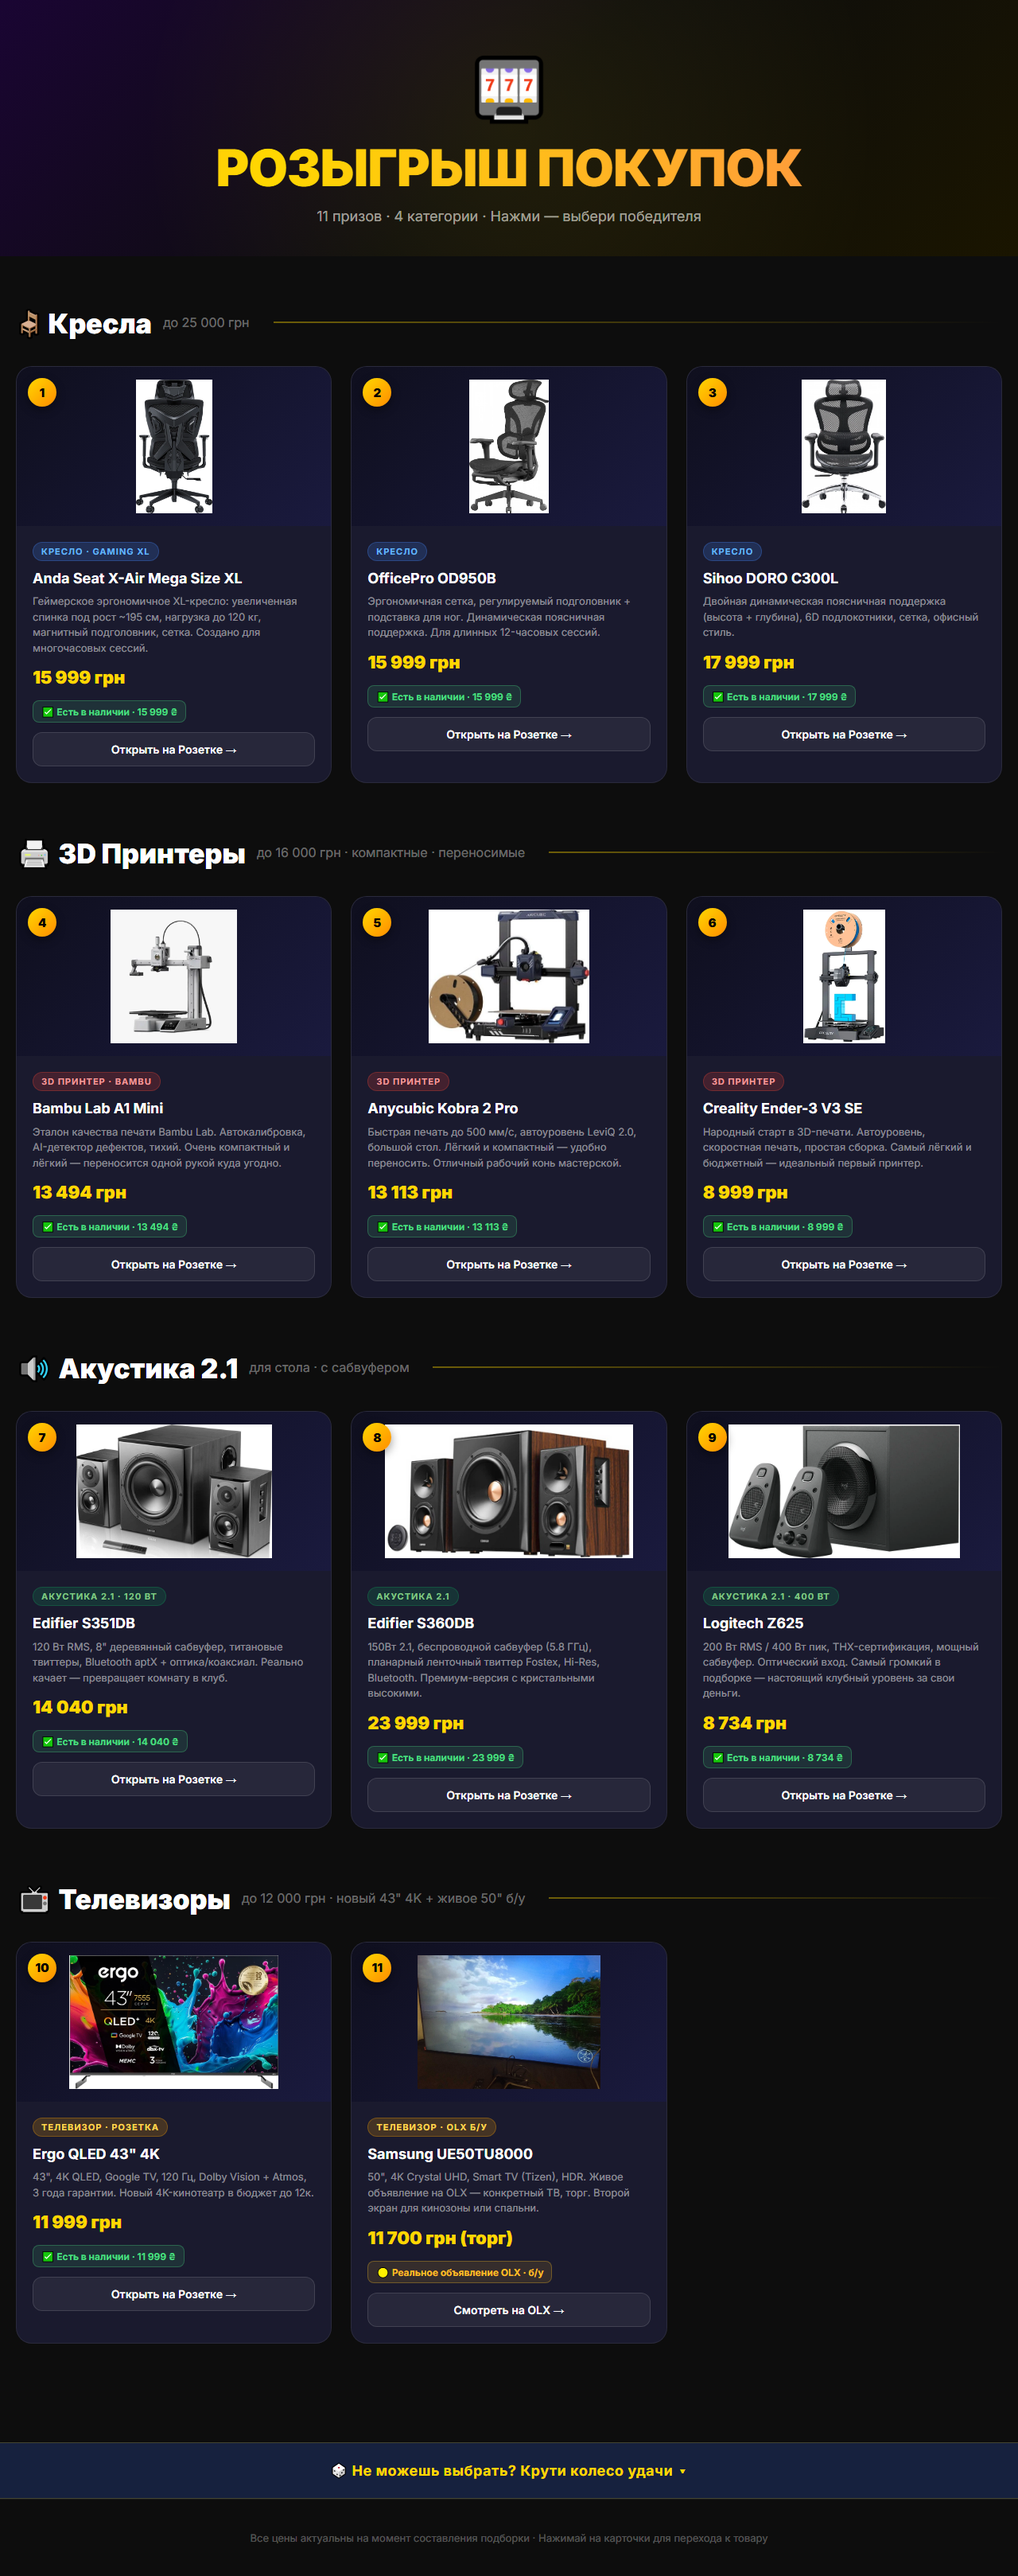
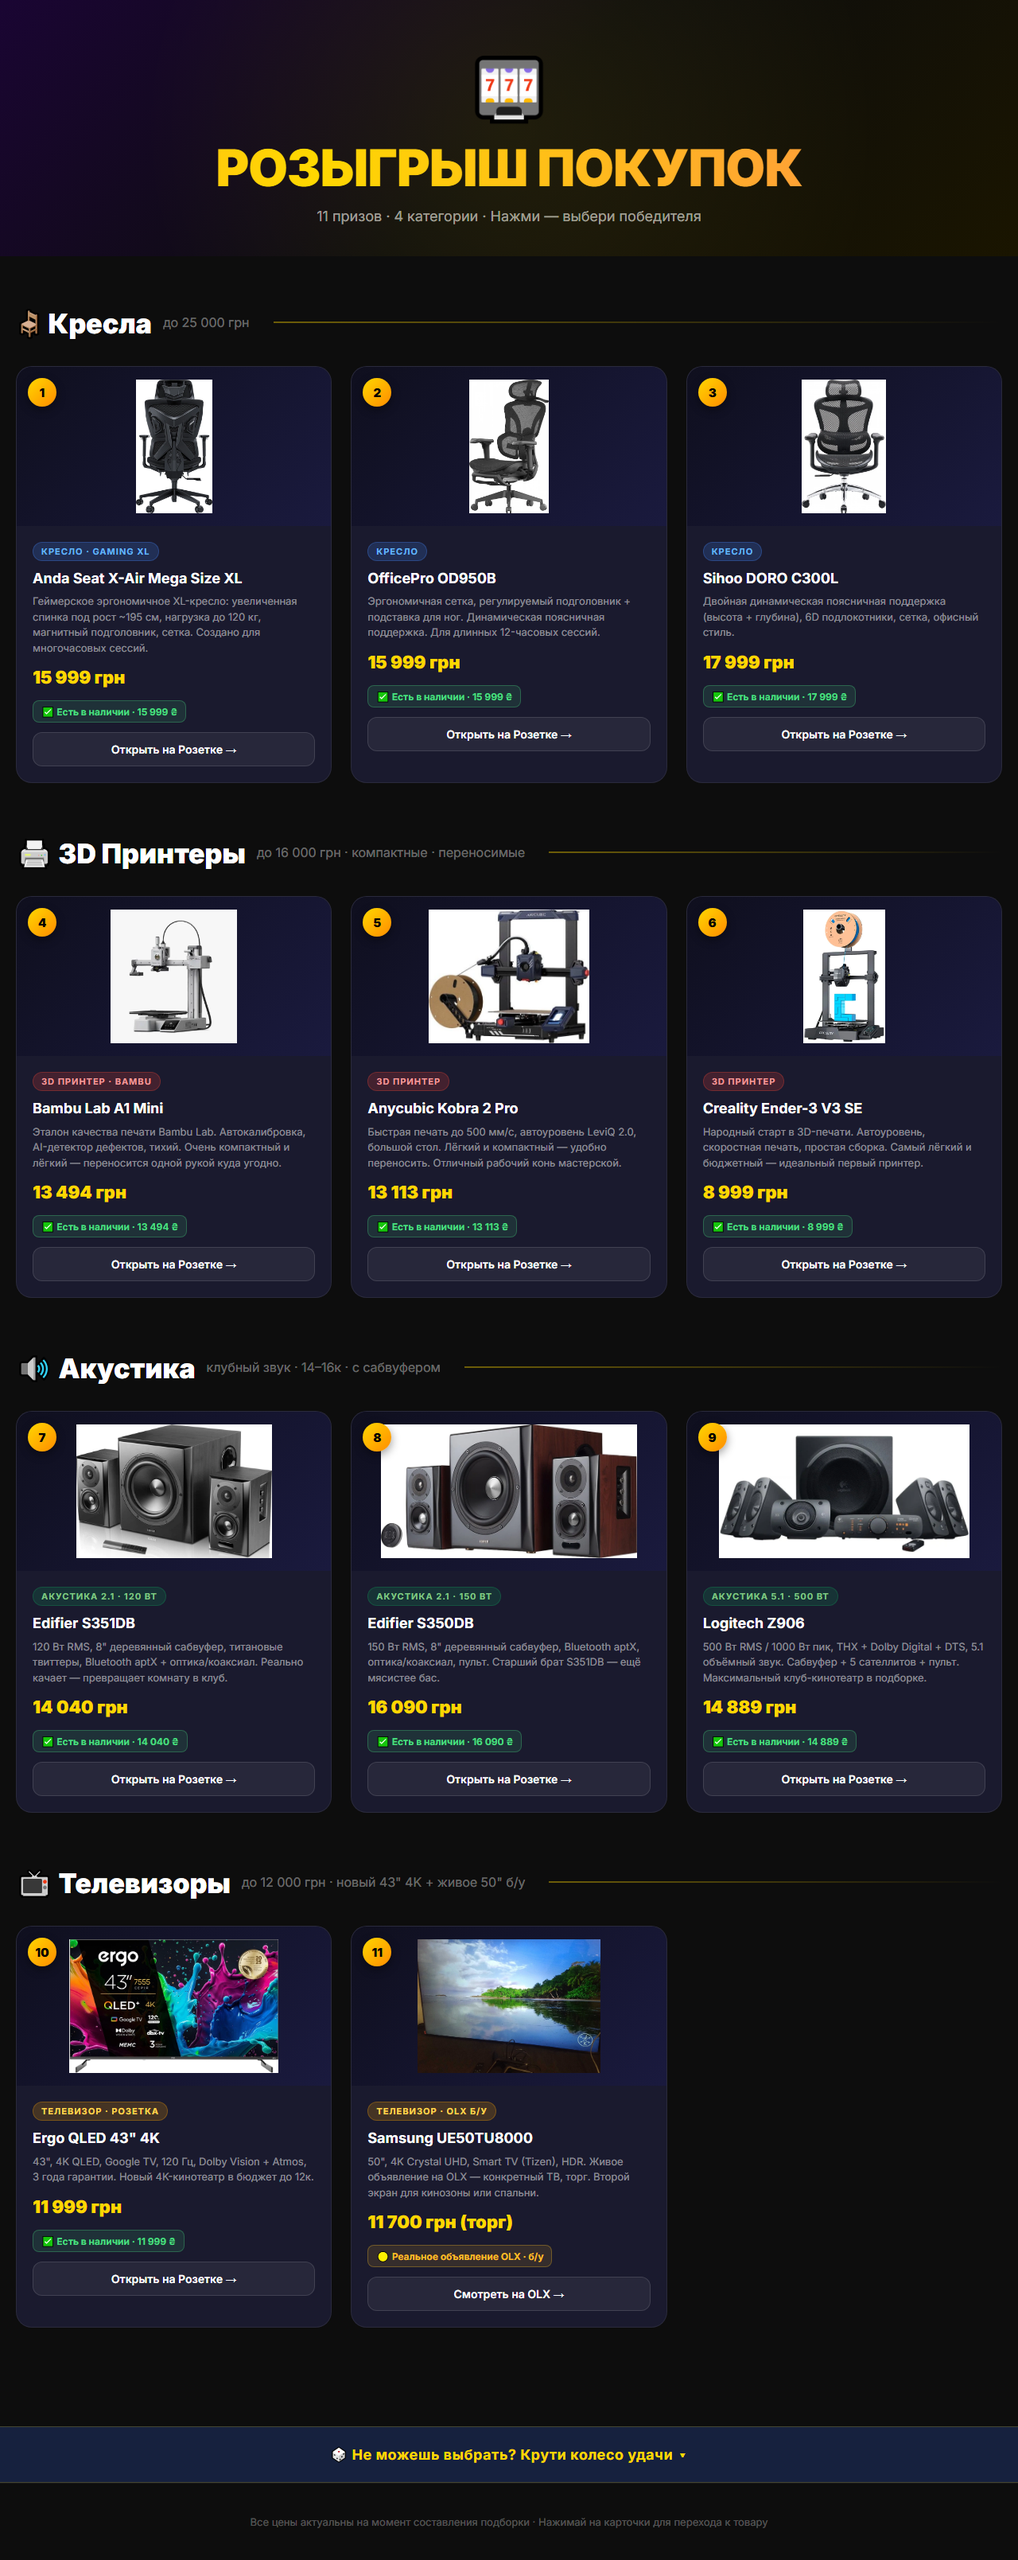
Колонки в единый диапазон 14-16к (устранён разброс 8.7к-24к)
- №8 Edifier S360DB (23999) → Edifier S350DB (16090, 150Вт 2.1)
- №9 Logitech Z625 (8734) → Logitech Z906 (14889, 500Вт RMS 5.1 THX)
- №7 Edifier S351DB (14040) остался
- Итог: все три 14040-16090₴, все мощные (120/150/500Вт). Ярлык категории обновлён (не только 2.1)

diff --git a/index.html b/index.html
@@ -377,7 +377,7 @@
   </div>
 
   <!-- АКУСТИКА -->
-  <div class="category-title">🔊 Акустика 2.1 <span style="font-size:16px;color:rgba(255,255,255,0.4);font-weight:400;">для стола · с сабвуфером</span></div>
+  <div class="category-title">🔊 Акустика <span style="font-size:16px;color:rgba(255,255,255,0.4);font-weight:400;">клубный звук · 14–16к · с сабвуфером</span></div>
   <div class="grid">
 
     <div class="card" data-num="7" onclick="window.open('https://rozetka.com.ua/ua/591670591/p591670591/','_blank')">
@@ -394,31 +394,31 @@
       </div>
     </div>
 
-    <div class="card" data-num="8" onclick="window.open('https://rozetka.com.ua/ua/edifier_s360db_brown/p29001465/','_blank')">
+    <div class="card" data-num="8" onclick="window.open('https://rozetka.com.ua/ua/581098624/p581098624/','_blank')">
       <div class="ticket-number">8</div>
-      <img class="product-img" src="images/p8.jpg" alt="Edifier S360DB" onerror="this.style.display='none';this.nextElementSibling.style.display='flex'">
+      <img class="product-img" src="images/p8.jpg" alt="Edifier S350DB" onerror="this.style.display='none';this.nextElementSibling.style.display='flex'">
       <div class="product-img-placeholder" style="display:none;background:linear-gradient(135deg,#0a0a1a,#1a1a0a)">🔊</div>
       <div class="card-body">
-        <span class="card-category-badge badge-speaker">Акустика 2.1</span>
-        <div class="card-name">Edifier S360DB</div>
-        <div class="card-desc">150Вт 2.1, беспроводной сабвуфер (5.8 ГГц), планарный ленточный твиттер Fostex, Hi-Res, Bluetooth. Премиум-версия с кристальными высокими.</div>
-        <div class="card-price">23 999 грн</div>
-        <div class="stock stock-in">✅ Есть в наличии · 23 999 ₴</div>
-        <a class="card-link" href="https://rozetka.com.ua/ua/edifier_s360db_brown/p29001465/" target="_blank" onclick="event.stopPropagation()">Открыть на Розетке →</a>
+        <span class="card-category-badge badge-speaker">Акустика 2.1 · 150 Вт</span>
+        <div class="card-name">Edifier S350DB</div>
+        <div class="card-desc">150 Вт RMS, 8" деревянный сабвуфер, Bluetooth aptX, оптика/коаксиал, пульт. Старший брат S351DB — ещё мясистее бас.</div>
+        <div class="card-price">16 090 грн</div>
+        <div class="stock stock-in">✅ Есть в наличии · 16 090 ₴</div>
+        <a class="card-link" href="https://rozetka.com.ua/ua/581098624/p581098624/" target="_blank" onclick="event.stopPropagation()">Открыть на Розетке →</a>
       </div>
     </div>
 
-    <div class="card" data-num="9" onclick="window.open('https://rozetka.com.ua/ua/logitech-980-001256/p421218996/','_blank')">
+    <div class="card" data-num="9" onclick="window.open('https://rozetka.com.ua/ua/511969199/p511969199/','_blank')">
       <div class="ticket-number">9</div>
-      <img class="product-img" src="images/p9.jpg" alt="Logitech Z625" onerror="this.style.display='none';this.nextElementSibling.style.display='flex'">
+      <img class="product-img" src="images/p9.jpg" alt="Logitech Z906 5.1" onerror="this.style.display='none';this.nextElementSibling.style.display='flex'">
       <div class="product-img-placeholder" style="display:none;background:linear-gradient(135deg,#001a1a,#003d3d)">🔊</div>
       <div class="card-body">
-        <span class="card-category-badge badge-speaker">Акустика 2.1 · 400 Вт</span>
-        <div class="card-name">Logitech Z625</div>
-        <div class="card-desc">200 Вт RMS / 400 Вт пик, THX-сертификация, мощный сабвуфер. Оптический вход. Самый громкий в подборке — настоящий клубный уровень за свои деньги.</div>
-        <div class="card-price">8 734 грн</div>
-        <div class="stock stock-in">✅ Есть в наличии · 8 734 ₴</div>
-        <a class="card-link" href="https://rozetka.com.ua/ua/logitech-980-001256/p421218996/" target="_blank" onclick="event.stopPropagation()">Открыть на Розетке →</a>
+        <span class="card-category-badge badge-speaker">Акустика 5.1 · 500 Вт</span>
+        <div class="card-name">Logitech Z906</div>
+        <div class="card-desc">500 Вт RMS / 1000 Вт пик, THX + Dolby Digital + DTS, 5.1 объёмный звук. Сабвуфер + 5 сателлитов + пульт. Максимальный клуб-кинотеатр в подборке.</div>
+        <div class="card-price">14 889 грн</div>
+        <div class="stock stock-in">✅ Есть в наличии · 14 889 ₴</div>
+        <a class="card-link" href="https://rozetka.com.ua/ua/511969199/p511969199/" target="_blank" onclick="event.stopPropagation()">Открыть на Розетке →</a>
       </div>
     </div>
 
